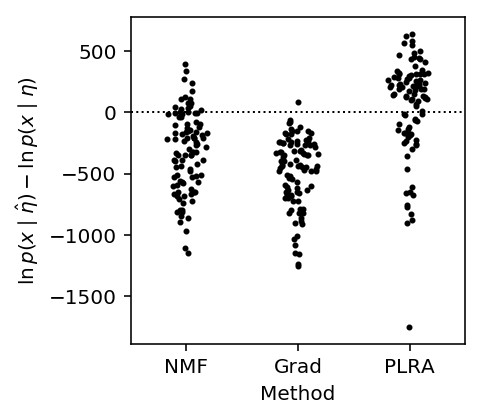
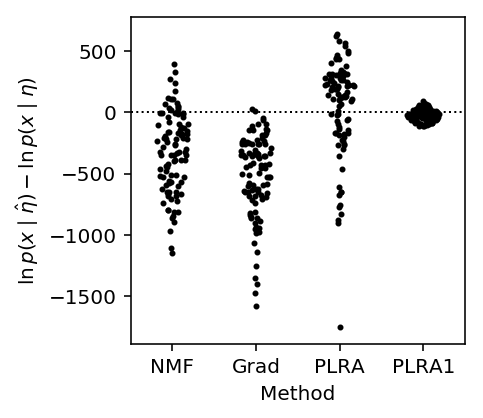
Republish

diff --git a/docs/wlra.html b/docs/wlra.html
@@ -1,7 +1,7 @@
 <!DOCTYPE html>
 <html lang="en">
 <head>
-<!-- 2018-10-04 Thu 19:39 -->
+<!-- 2018-10-08 Mon 18:14 -->
 <meta charset="utf-8">
 <meta name="viewport" content="width=device-width, initial-scale=1">
 <title>Weighted low rank approximation</title>
@@ -263,17 +263,17 @@ for the JavaScript code in this tag.
 <li><a href="#org1010fdb">EM algorithm</a></li>
 <li><a href="#orgdd7ac38">Alternative derivation</a></li>
 <li><a href="#orgb462a31">Maximizing non-Gaussian likelihoods</a></li>
-<li><a href="#org51fbb42">Imputing missing values</a></li>
-<li><a href="#org0c5c866">Choosing the rank of the approximation</a></li>
+<li><a href="#orgda41c3a">Imputing missing values</a></li>
+<li><a href="#org315bd15">Choosing the rank of the approximation</a></li>
 </ul>
 </li>
 <li><a href="#org643a7f6">Results</a>
 <ul>
 <li><a href="#org31c72cd">Recovering low rank structure</a></li>
 <li><a href="#org64afc90">Explaining training data</a></li>
-<li><a href="#orgaae9208">Imputing missing values</a></li>
+<li><a href="#orgc035e15">Imputing missing values</a></li>
 <li><a href="#orgb6aef17">Convergence</a></li>
-<li><a href="#org8b1c6ce">Choosing the rank of the approximation</a></li>
+<li><a href="#org15db90d">Choosing the rank of the approximation</a></li>
 <li><a href="#orgd780580">Explaining held out data</a></li>
 </ul>
 </li>
@@ -533,9 +533,9 @@ where \(S(\cdot)\) denotes the sigmoid function.
 </div>
 </div>
 
-<div id="outline-container-org51fbb42" class="outline-3">
-<h3 id="org51fbb42">Imputing missing values</h3>
-<div class="outline-text-3" id="text-org51fbb42">
+<div id="outline-container-orgda41c3a" class="outline-3">
+<h3 id="orgda41c3a">Imputing missing values</h3>
+<div class="outline-text-3" id="text-orgda41c3a">
 <p>
 The EM algorithm for WLRA supports missing values by setting \(w_{ij} =
    0\).
@@ -550,9 +550,9 @@ presence/absence. We can do this by using weights \(\tilde{\mathbf{W}} \circ
 </div>
 </div>
 
-<div id="outline-container-org0c5c866" class="outline-3">
-<h3 id="org0c5c866">Choosing the rank of the approximation</h3>
-<div class="outline-text-3" id="text-org0c5c866">
+<div id="outline-container-org315bd15" class="outline-3">
+<h3 id="org315bd15">Choosing the rank of the approximation</h3>
+<div class="outline-text-3" id="text-org315bd15">
 <p>
 The most obvious way to pick an optimal rank is to use cross-validation:
 hold out some samples, and evaluate the likelihood of the held-out samples
@@ -734,7 +734,7 @@ estimated parameters.
 
 <span class="org-keyword">def</span> <span class="org-function-name">training_score_grad</span>(x, rank):
   <span class="org-keyword">import</span> wlra.pois
-  <span class="org-variable-name">m</span> = (wlra.pois.PoissonFA(n_samples=200, n_features=300, n_components=3)
+  <span class="org-variable-name">m</span> = (wlra.pois.PoissonFA(n_samples=200, n_features=300, n_components=rank)
        .fit(x, atol=1e-2, max_epochs=10000))
   <span class="org-keyword">return</span> st.poisson(mu=np.exp(m.L.dot(m.F))).logpmf(x).<span class="org-builtin">sum</span>()
 
@@ -743,6 +743,12 @@ estimated parameters.
     <span class="org-keyword">return</span> st.poisson(mu=np.exp(wlra.pois_lra(x, rank))).logpmf(x).<span class="org-builtin">sum</span>()
   <span class="org-keyword">except</span> <span class="org-type">RuntimeError</span>:
     <span class="org-keyword">return</span> np.nan
+
+<span class="org-keyword">def</span> <span class="org-function-name">training_score_plra1</span>(x, rank, eps=.5):
+  <span class="org-variable-name">eta0</span> = np.where(x &gt; 0, np.log(x), np.log(eps))
+  <span class="org-variable-name">w</span> = np.exp(-eta0)
+  <span class="org-variable-name">target</span> = eta0 + x * w - 1
+  <span class="org-keyword">return</span> st.poisson(mu=np.exp(wlra.wlra(target, w, rank=rank))).logpmf(x).<span class="org-builtin">sum</span>()
 
 <span class="org-keyword">def</span> <span class="org-function-name">evaluate_training</span>(rank=3, eta_max=2, num_trials=10):
   <span class="org-variable-name">result</span> = []
@@ -754,9 +760,10 @@ estimated parameters.
       training_score_nmf(x, rank),
       training_score_grad(x, rank),
       training_score_plra(x, rank),
+      training_score_plra1(x, rank)
     ])
   <span class="org-variable-name">result</span> = pd.DataFrame(result)
-  <span class="org-variable-name">result.columns</span> = [<span class="org-string">'trial'</span>, <span class="org-string">'Oracle'</span>, <span class="org-string">'NMF'</span>, <span class="org-string">'Grad'</span>, <span class="org-string">'PLRA'</span>]
+  <span class="org-variable-name">result.columns</span> = [<span class="org-string">'trial'</span>, <span class="org-string">'Oracle'</span>, <span class="org-string">'NMF'</span>, <span class="org-string">'Grad'</span>, <span class="org-string">'PLRA'</span>, <span class="org-string">'PLRA1'</span>]
   <span class="org-keyword">return</span> result
 </pre>
 </div>
@@ -779,7 +786,7 @@ python /project2/mstephens/aksarkar/projects/singlecell-ideas/code/pois-train-ll
 </div>
 
 <pre class="example">
-Submitted batch job 50561930
+Submitted batch job 50813277
 
 </pre>
 
@@ -797,7 +804,7 @@ Plot the performance.
 </p>
 
 <div class="org-src-container">
-<pre class="src src-ipython"><span class="org-variable-name">methods</span> = [<span class="org-string">'NMF'</span>, <span class="org-string">'Grad'</span>, <span class="org-string">'PLRA'</span>]
+<pre class="src src-ipython"><span class="org-variable-name">methods</span> = [<span class="org-string">'NMF'</span>, <span class="org-string">'Grad'</span>, <span class="org-string">'PLRA'</span>, <span class="org-string">'PLRA1'</span>]
 plt.clf()
 plt.gcf().set_size_inches(3, 3)
 <span class="org-keyword">for</span> j, method <span class="org-keyword">in</span> <span class="org-builtin">enumerate</span>(methods):
@@ -822,9 +829,9 @@ plt.xlabel(<span class="org-string">'Method'</span>)
 </div>
 </div>
 
-<div id="outline-container-orgaae9208" class="outline-3">
-<h3 id="orgaae9208">Imputing missing values</h3>
-<div class="outline-text-3" id="text-orgaae9208">
+<div id="outline-container-orgc035e15" class="outline-3">
+<h3 id="orgc035e15">Imputing missing values</h3>
+<div class="outline-text-3" id="text-orgc035e15">
 <p>
 We generate a Poisson data matrix with planted row rank structure.
 </p>
@@ -1024,12 +1031,125 @@ n
 23
 
 </pre>
+
+<p>
+Look at the objective function as a function of x and eta.
+</p>
+
+<div class="org-src-container">
+<pre class="src src-ipython">plt.clf()
+<span class="org-variable-name">fig</span>, <span class="org-variable-name">ax</span> = plt.subplots(1, 2, sharex=<span class="org-constant">True</span>)
+fig.set_size_inches(7, 3)
+
+<span class="org-variable-name">lam</span> = np.logspace(-2, 2, 100)
+<span class="org-variable-name">eta</span> = np.log(lam)
+<span class="org-variable-name">s2</span> = np.exp(-eta)
+
+<span class="org-keyword">for</span> x <span class="org-keyword">in</span> <span class="org-builtin">range</span>(10):
+  <span class="org-variable-name">m</span> = eta + x * np.exp(-eta) - 1
+  ax[0].plot(eta, st.norm(loc=m, scale=np.sqrt(s2)).pdf(eta), lw=1, c=colorcet.cm[<span class="org-string">'fire'</span>](x / 10))
+ax[0].set_xlabel(<span class="org-string">'$\eta$'</span>)
+ax[0].set_ylabel(<span class="org-string">'Approximate objective'</span>)
+
+<span class="org-keyword">for</span> x <span class="org-keyword">in</span> <span class="org-builtin">range</span>(10):
+  ax[1].plot(eta, st.poisson(mu=lam).pmf(x), lw=1, c=colorcet.cm[<span class="org-string">'fire'</span>](x / 10))
+ax[1].set_xlabel(<span class="org-string">'$\eta$'</span>)
+ax[1].set_ylabel(<span class="org-string">'True objective'</span>)
+
+plt.tight_layout()
+
+<span class="org-variable-name">sm</span> = plt.cm.ScalarMappable(cmap=colorcet.cm[<span class="org-string">'fire'</span>], norm=plt.Normalize(vmin=0, vmax=10))
+<span class="org-variable-name">sm._A</span> = []
+<span class="org-variable-name">cb</span> = plt.colorbar(sm, ax=ax)
+cb.set_label(<span class="org-string">'Observation x'</span>)
+</pre>
+</div>
+
+
+<div class="figure">
+<p><img src="figure/wlra.org/approx.png" alt="approx.png">
+</p>
+</div>
+
+<p>
+Look at the estimates against the true eta for a simple problem.
+</p>
+
+<div class="org-src-container">
+<pre class="src src-ipython"><span class="org-variable-name">x</span>, <span class="org-variable-name">eta</span> = simulate_pois(n=200, p=300, rank=3, eta_max=4)
+<span class="org-variable-name">eta0</span> = np.where(x &gt; 0, np.log(x), np.log(0.5))
+<span class="org-variable-name">w</span> = np.exp(-eta0)
+<span class="org-variable-name">target</span> = eta0 + x * w - 1
+<span class="org-variable-name">etahat</span> = wlra.wlra(target, w, rank=3)
+
+<span class="org-variable-name">w</span> = np.exp(-etahat)
+<span class="org-variable-name">target</span> = etahat + x * w - 1
+<span class="org-variable-name">etahat1</span> = wlra.wlra(target, w, rank=3)
+
+<span class="org-variable-name">etahat2</span> = wlra.pois_lra(x, rank=3)
+
+<span class="org-keyword">import</span> wlra.pois
+<span class="org-variable-name">m</span> = wlra.pois.PoissonFA(n_samples=200, n_features=300, n_components=3, log_link=<span class="org-constant">True</span>).fit(x, atol=1e-2, max_epochs=10000)
+<span class="org-variable-name">etahat3</span> = m.L.dot(m.F)
+
+<span class="org-variable-name">lamhat</span> = nmf(x, 3)
+</pre>
+</div>
+
+<div class="org-src-container">
+<pre class="src src-ipython"><span class="org-variable-name">lim</span> = 4
+plt.clf()
+<span class="org-variable-name">fig</span>, <span class="org-variable-name">ax</span> = plt.subplots(2, 3)
+plt.gcf().set_size_inches(9, 5)
+
+<span class="org-keyword">for</span> a <span class="org-keyword">in</span> ax.ravel():
+  a.set_xlim([-lim, lim])
+  a.set_ylim([-lim, lim])
+  a.set_xlabel(<span class="org-string">'$\eta$'</span>)
+  a.set_ylabel(<span class="org-string">'$\hat\eta$'</span>)
+
+<span class="org-keyword">for</span> a <span class="org-keyword">in</span> ax.ravel()[:-2]:
+  a.plot([-lim, lim], [-lim, lim], c=<span class="org-string">'r'</span>, lw=1, ls=<span class="org-string">':'</span>)
+
+ax[0][0].scatter(eta, etahat, c=<span class="org-string">'k'</span>, s=4, alpha=0.1)
+ax[0][0].set_title(<span class="org-string">'PLRA1'</span>)
+
+ax[0][1].scatter(eta, etahat1, c=<span class="org-string">'k'</span>, s=4, alpha=0.1)
+ax[0][1].set_title(<span class="org-string">'PLRA2'</span>)
+
+ax[0][2].scatter(eta, etahat2, c=<span class="org-string">'k'</span>, s=4, alpha=0.1)
+ax[0][2].set_title(<span class="org-string">'PLRA'</span>)
+
+ax[1][0].scatter(eta, etahat3, c=<span class="org-string">'k'</span>, s=4, alpha=0.1)
+ax[1][0].set_title(<span class="org-string">'Grad'</span>)
+
+<span class="org-variable-name">min_</span> = lamhat.<span class="org-builtin">min</span>()
+ax[1][1].scatter(np.exp(eta), lamhat, c=<span class="org-string">'k'</span>, s=4, alpha=0.1)
+ax[1][1].plot([min_, np.exp(lim)], [min_, np.exp(lim)], c=<span class="org-string">'r'</span>, lw=1, ls=<span class="org-string">':'</span>)
+ax[1][1].set_xscale(<span class="org-string">'log'</span>)
+ax[1][1].set_yscale(<span class="org-string">'log'</span>)
+ax[1][1].set_xlim(min_, np.exp(lim))
+ax[1][1].set_ylim(min_, np.exp(lim))
+ax[1][1].set_title(<span class="org-string">'NMF'</span>)
+ax[1][1].set_xlabel(<span class="org-string">'$\lambda$'</span>)
+ax[1][1].set_ylabel(<span class="org-string">'$\hat\lambda$'</span>)
+
+ax[1][2].set_axis_off()
+fig.tight_layout()
+</pre>
+</div>
+
+
+<div class="figure">
+<p><img src="figure/wlra.org/etahat.png" alt="etahat.png">
+</p>
+</div>
 </div>
 </div>
 
-<div id="outline-container-org8b1c6ce" class="outline-3">
-<h3 id="org8b1c6ce">Choosing the rank of the approximation</h3>
-<div class="outline-text-3" id="text-org8b1c6ce">
+<div id="outline-container-org15db90d" class="outline-3">
+<h3 id="org15db90d">Choosing the rank of the approximation</h3>
+<div class="outline-text-3" id="text-org15db90d">
 <p>
 We generate a Poisson data matrix with planted row rank structure.
 </p>
@@ -1149,7 +1269,7 @@ re-scale to account for different size factors \(R_i\).
 <div class="org-src-container">
 <pre class="src src-ipython" id="orgb77a649"><span class="org-keyword">def</span> <span class="org-function-name">pois_llik</span>(lam, train, test):
   <span class="org-variable-name">lam</span> *= test.<span class="org-builtin">sum</span>(axis=1, keepdims=<span class="org-constant">True</span>) / train.<span class="org-builtin">sum</span>(axis=1, keepdims=<span class="org-constant">True</span>)
-  <span class="org-keyword">return</span> st.poisson(mu=lam).logpmf(test).mean()
+  <span class="org-keyword">return</span> st.poisson(mu=lam).logpmf(test).<span class="org-builtin">sum</span>()
 
 <span class="org-keyword">def</span> <span class="org-function-name">generalization_score_mean</span>(train, test):
   <span class="org-variable-name">lam</span> = np.ones(train.shape) * train.mean(axis=0, keepdims=<span class="org-constant">True</span>)
@@ -1181,12 +1301,20 @@ re-scale to account for different size factors \(R_i\).
   <span class="org-keyword">return</span> pois_llik(lam, train, test)
 
 <span class="org-keyword">def</span> <span class="org-function-name">generalization_score_hpf</span>(train, test, rank):
-  <span class="org-keyword">import</span> hpfrec
-  <span class="org-variable-name">x</span> = pd.DataFrame(train).reset_index().melt(id_vars=[<span class="org-string">'index'</span>])
-  <span class="org-variable-name">x.columns</span> = [<span class="org-string">'UserId'</span>, <span class="org-string">'ItemId'</span>, <span class="org-string">'Count'</span>]
-  <span class="org-variable-name">m</span> = hpfrec.HPF(k=rank, produce_dicts=<span class="org-constant">False</span>, verbose=<span class="org-constant">False</span>).fit(x)
-  <span class="org-variable-name">lam</span> = m.Theta.dot(m.Beta.T)
-  <span class="org-keyword">return</span> pois_llik(lam, train, test)
+  <span class="org-keyword">import</span> scHPF.preprocessing
+  <span class="org-keyword">import</span> scHPF.train
+  <span class="org-keyword">import</span> tempfile
+  <span class="org-keyword">with</span> tempfile.TemporaryDirectory(prefix=<span class="org-string">'/scratch/midway2/aksarkar/ideas/'</span>) <span class="org-keyword">as</span> d:
+    <span class="org-comment-delimiter"># </span><span class="org-comment">scHPF assumes genes x cells</span>
+    scHPF.preprocessing.split_dataset_hpf(train.T, outdir=d)
+    <span class="org-variable-name">opt</span> = scHPF.train.run_trials(
+      indir=d, outdir=d, prefix=<span class="org-string">''</span>,
+      nfactors=rank, a=0.3, ap=1, bp=1, c=0.3, cp=1, dp=1,
+      <span class="org-comment-delimiter"># </span><span class="org-comment">This is broken when we call the API directly</span>
+      logging_options={<span class="org-string">'log_phi'</span>: <span class="org-constant">False</span>})
+    <span class="org-variable-name">L</span> = np.load(f<span class="org-string">'{opt}/beta_invrate.npy'</span>) * np.load(f<span class="org-string">'{opt}/beta_shape.npy'</span>)
+    <span class="org-variable-name">F</span> = np.load(f<span class="org-string">'{opt}/theta_invrate.npy'</span>) * np.load(f<span class="org-string">'{opt}/theta_shape.npy'</span>)
+    <span class="org-keyword">return</span> pois_llik(L.dot(F.T), train, test)
 
 <span class="org-keyword">def</span> <span class="org-function-name">generalization_score_scvi</span>(train, test):
   <span class="org-keyword">from</span> scvi.dataset <span class="org-keyword">import</span> GeneExpressionDataset
@@ -1200,6 +1328,15 @@ re-scale to account for different size factors \(R_i\).
   <span class="org-comment-delimiter"># </span><span class="org-comment">(estimating lambda)</span>
   <span class="org-variable-name">lam</span> = np.vstack([m.train_set.sequential().imputation(),
                    m.test_set.sequential().imputation()])
+  <span class="org-keyword">return</span> pois_llik(lam, train, test)
+
+<span class="org-keyword">def</span> <span class="org-function-name">generalization_score_dca</span>(train, test):
+  <span class="org-keyword">import</span> anndata
+  <span class="org-keyword">import</span> scanpy.api
+  <span class="org-variable-name">data</span> = anndata.AnnData(X=train)
+  <span class="org-comment-delimiter"># </span><span class="org-comment">"Denoising" is estimating lambda</span>
+  scanpy.api.pp.dca(data, mode=<span class="org-string">'denoise'</span>)
+  <span class="org-variable-name">lam</span> = data.X
   <span class="org-keyword">return</span> pois_llik(lam, train, test)
 
 <span class="org-keyword">def</span> <span class="org-function-name">train_test_split</span>(x, p=0.5):
@@ -1223,7 +1360,7 @@ re-scale to account for different size factors \(R_i\).
     result.append([trial,
                    generalization_score_mean(train, test),
                    generalization_score_nmf(train, test),
-                   <span class="org-comment-delimiter"># </span><span class="org-comment">generalization_score_hpf(train, test, rank=50),</span>
+                   generalization_score_hpf(train, test, rank=50),
                    <span class="org-comment-delimiter"># </span><span class="org-comment">generalization_score_plra(train, test),</span>
                    generalization_score_scvi(train, test)
     ])
@@ -1252,7 +1389,7 @@ python /project2/mstephens/aksarkar/projects/singlecell-ideas/code/pois-generali
 </div>
 
 <pre class="example">
-Submitted batch job 50562987
+Submitted batch job 50610089
 
 </pre>
 
@@ -1275,7 +1412,7 @@ Submitted batch job 50562987
 </div>
 <div id="postamble" class="status">
 <p class="author">Author: Abhishek Sarkar</p>
-<p class="date">Created: 2018-10-04 Thu 19:39</p>
+<p class="date">Created: 2018-10-08 Mon 18:14</p>
 <p class="validation"><a href="http://validator.w3.org/check?uri=referer">Validate</a></p>
 </div>
 </body>
